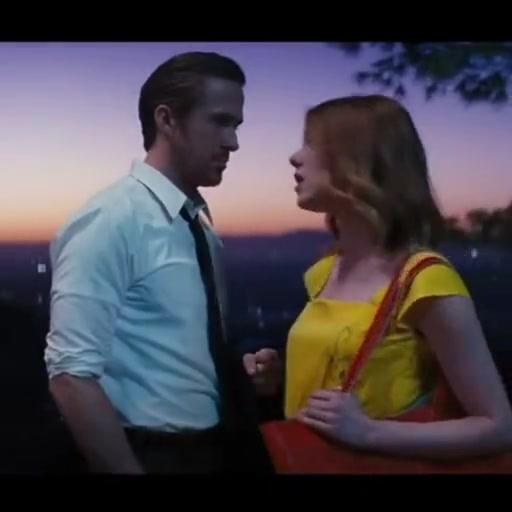
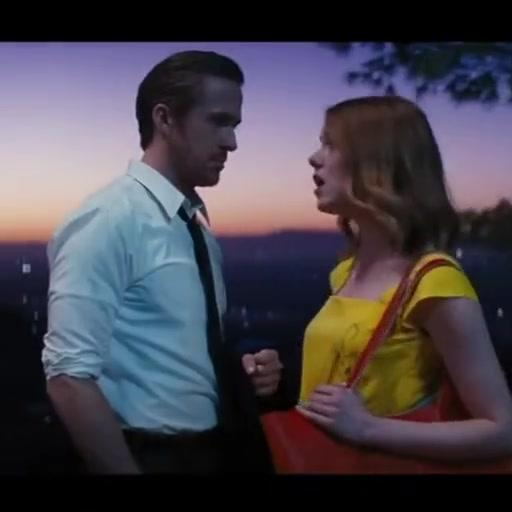
fix: config of lalaland

diff --git a/convert_dataset.py b/convert_dataset.py
@@ -83,7 +83,7 @@ SAMPLE_CONFIGS = {
     'p2p/lalaland': {
         'n_sample_frames': 15,
         'start_sample_frame': 0,
-        'sampling_rate': 5,
+        'sampling_rate': 4,
     },
     'p2p/n_u_c_s': {
         'n_sample_frames': 12,
